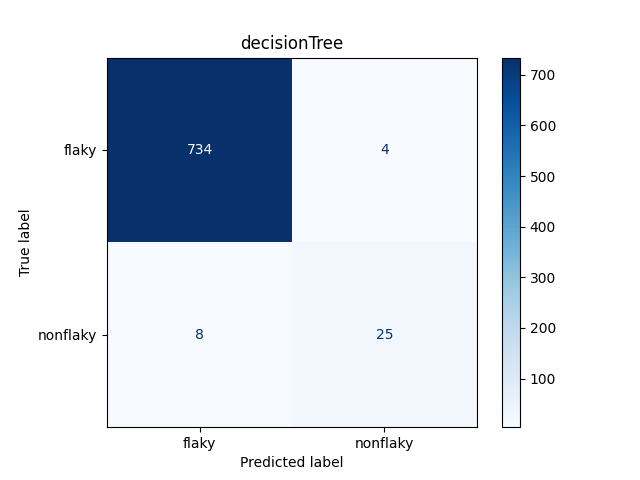
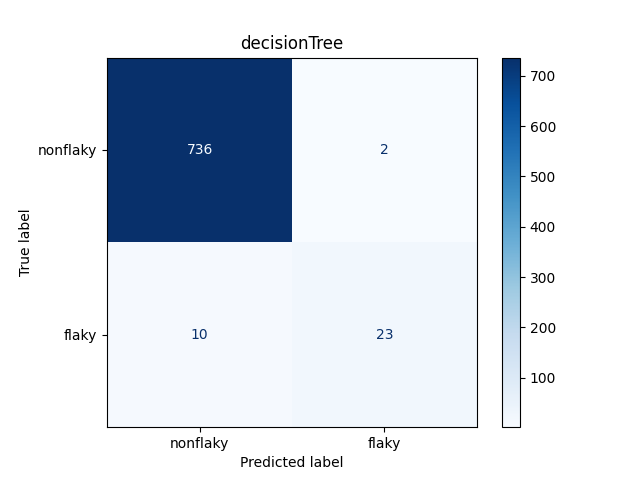
fix: CM labels plot

diff --git a/RQ1/RQ1.1/exec.py b/RQ1/RQ1.1/exec.py
@@ -23,32 +23,33 @@ import time
 import re
 from sklearn.model_selection import learning_curve
 import numpy as np
-
+#from xgboost import XGBClassifier
 from sklearn.feature_extraction.text import CountVectorizer
 
 def initDataset(flakyFileName, normalFileName):
     
     df_flaky = pd.read_csv(flakyFileName)
     df_normal = pd.read_csv(normalFileName)
- 
+    
+
     df_flaky['is_flaky'] = True
     df_normal['is_flaky'] = False
     
     frames = [df_flaky, df_normal]
     
     result = pd.concat(frames)
+
     result = result.fillna(0)
     
     y = result['is_flaky']
 
     result.drop('is_flaky', axis=1, inplace=True)
     result.drop('id', axis=1, inplace=True)
-    
+
     x = result
     
-    #print(x.shape, y.shape)
-    
     X_train, x_test, y_train, y_test = train_test_split(x, y, test_size=0.20, random_state=1)
+   
     return [X_train, x_test, y_train, y_test]
 
 def initClassifiers():
@@ -61,6 +62,7 @@ def initClassifiers():
         'logisticRegression': LogisticRegression(max_iter=1000),
         'perceptron': CalibratedClassifierCV(Perceptron()),
         'lda': LinearDiscriminantAnalysis(),
+        #'xgb': XGBClassifier(),
     }
 
     return classifiers
@@ -193,15 +195,11 @@ def execClassifiers(X_train, x_test, y_train, y_test, classifiers, normalize=[],
 
         predict = classifier.predict(x_test_exec)
 
-        # choice 1
         #print(classifier.predict_proba(x_test_exec)[:1])
-        #print(classifier.predict_proba(x_test_exec)[:,1])
-        
+
         y_probs = classifier.predict_proba(x_test_exec)[:,1]
-
+        
         saveIncorrectClassifications(x_test_exec, predict, y_test, key)
-
-        print(y_test.shape, y_probs.shape)
 
         result = {
             'classifier': key,
@@ -225,14 +223,14 @@ def execClassifiers(X_train, x_test, y_train, y_test, classifiers, normalize=[],
             }
 
             disp = plot_confusion_matrix(classifier, x_test_exec, y_test,
-                                 display_labels=['flaky', 'nonflaky'],
+                                 display_labels=['nonflaky', 'flaky'],
                                  cmap=plt.cm.Blues)
             disp.ax_.set_title(key)
             
             plt.savefig('plot/CM/cm_' + key + '.png')
 
         
-        pickle.dump(classifier, open("classifiers/" + key + ".sav", 'wb'))
+        #pickle.dump(classifier, open("classifiers/" + key + ".sav", 'wb'))
                         
         print(key, classification_report(y_test, predict, output_dict=True), matthews_corrcoef(y_test, predict), roc_auc_score(y_test, y_probs), "\n \n")   
 
